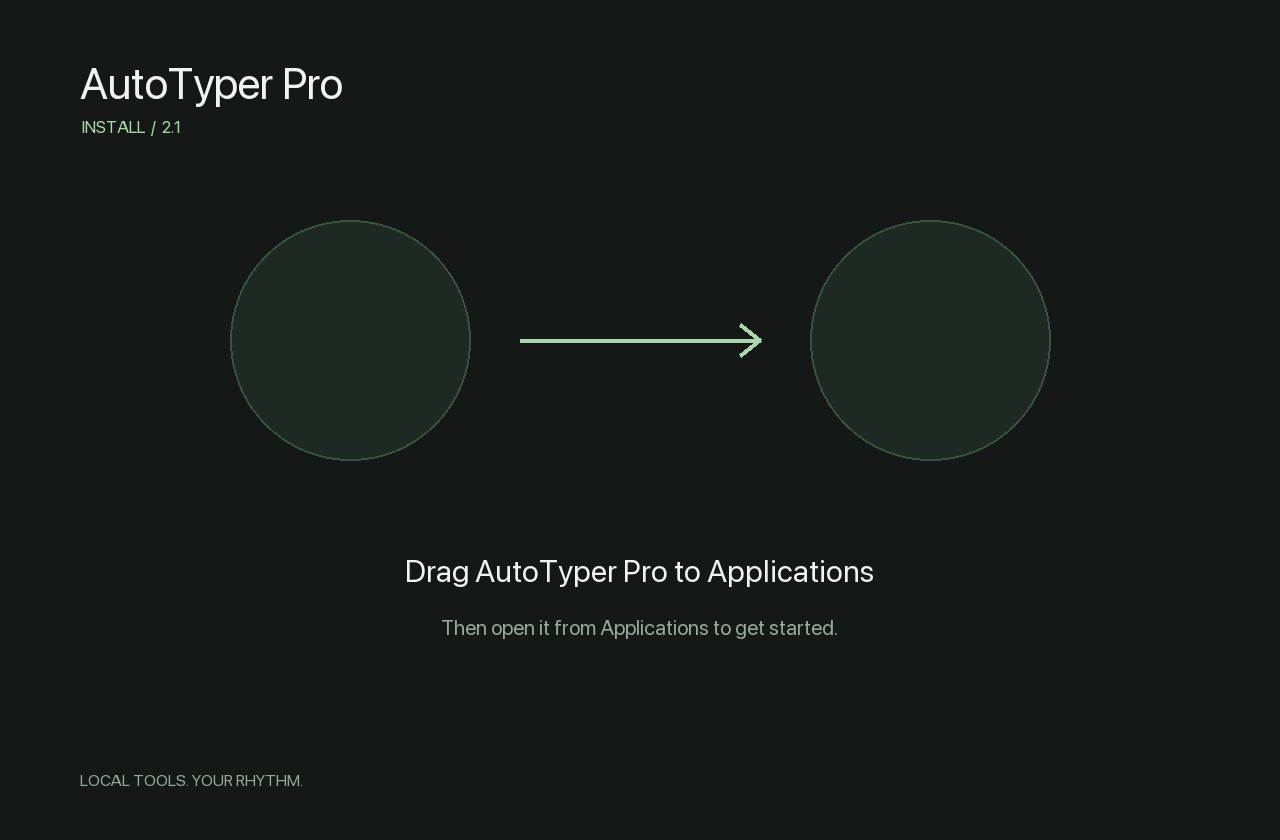
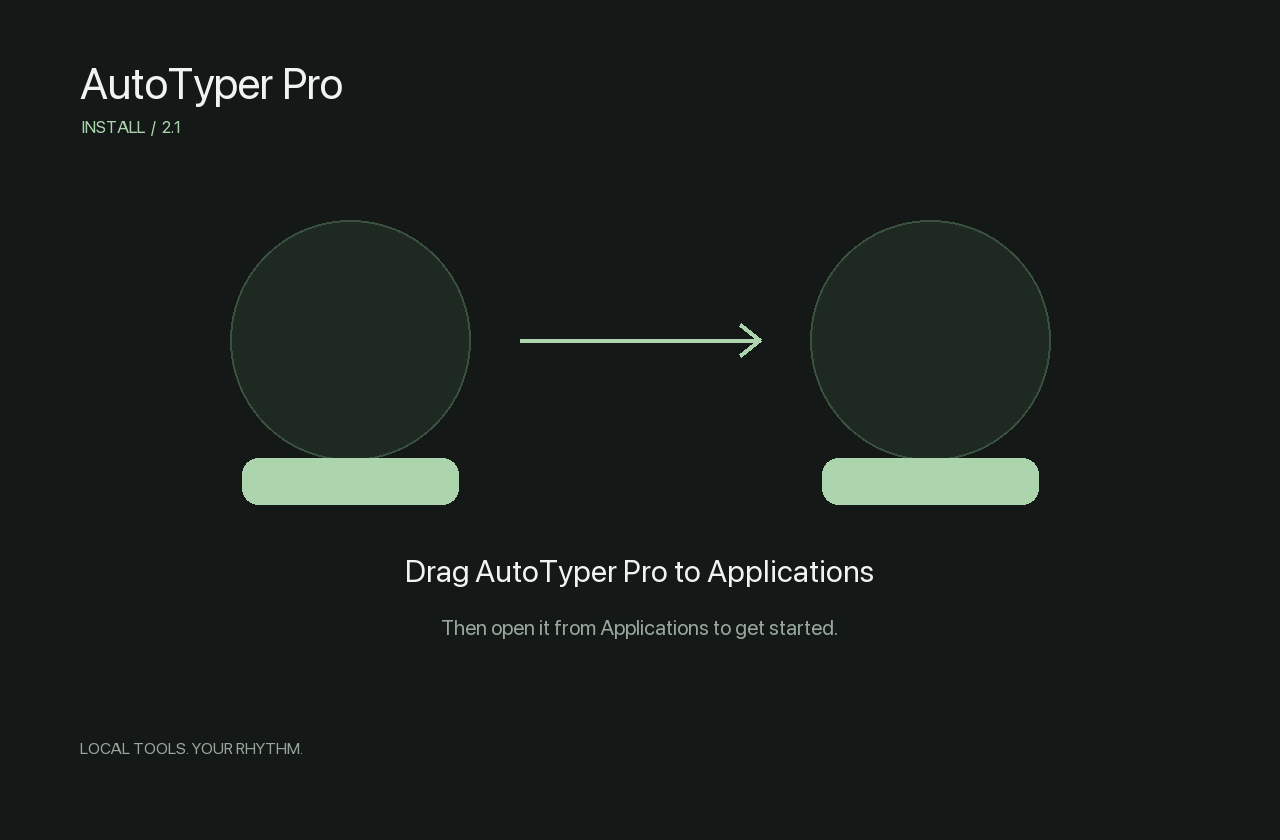
fix: improve Retina installer artwork and wait for UI completion in CI

diff --git a/packaging/macos/build_dmg.py b/packaging/macos/build_dmg.py
@@ -28,14 +28,17 @@ with tempfile.TemporaryDirectory(prefix='autotyper-dmg-') as temp:
     try:
         (mount/'Applications').symlink_to('/Applications')
         background=mount/'.background';background.mkdir()
-        Image.open(root/'assets/dmg-background.png').resize((640,420),Image.Resampling.LANCZOS).save(background/'background.png')
+        retina=Image.open(root/'assets/dmg-background.png')
+        retina.resize((640,420),Image.Resampling.LANCZOS).save(background/'background.png',dpi=(72,72))
+        retina.save(background/'background@2x.png',dpi=(144,144))
+        run('tiffutil','-cathidpicheck',str(background/'background.png'),str(background/'background@2x.png'),'-out',str(background/'background.tiff'))
         shutil.copy2(root/'assets/icon.icns',mount/'.VolumeIcon.icns')
         info=bytearray(32);info[8]=4
         run('xattr','-wx','com.apple.FinderInfo',bytes(info).hex(),str(mount))
         with DSStore.open(str(mount/'.DS_Store'),'w+') as ds:
             ds['.']['vSrn']=('long',1)
             ds['.']['bwsp']={'WindowBounds':'{{200, 150}, {640, 420}}','ShowToolbar':False,'ShowSidebar':False,'ContainerShowSidebar':False,'PreviewPaneVisibility':False,'SidebarWidth':0,'ShowStatusBar':False,'ShowPathbar':False,'ShowTabView':False}
-            ds['.']['icvp']={'viewOptionsVersion':1,'backgroundType':2,'backgroundImageAlias':Alias.for_file(str(background/'background.png')).to_bytes(),'backgroundColorRed':.08,'backgroundColorGreen':.09,'backgroundColorBlue':.08,'iconSize':104.0,'textSize':13.0,'labelOnBottom':True,'gridSpacing':100.0,'gridOffsetX':0.0,'gridOffsetY':0.0,'arrangeBy':'none','showIconPreview':True,'showItemInfo':False,'scrollPositionX':0.0,'scrollPositionY':0.0}
+            ds['.']['icvp']={'viewOptionsVersion':1,'backgroundType':2,'backgroundImageAlias':Alias.for_file(str(background/'background.tiff')).to_bytes(),'backgroundColorRed':.08,'backgroundColorGreen':.09,'backgroundColorBlue':.08,'iconSize':104.0,'textSize':13.0,'labelOnBottom':True,'gridSpacing':100.0,'gridOffsetX':0.0,'gridOffsetY':0.0,'arrangeBy':'none','showIconPreview':True,'showItemInfo':False,'scrollPositionX':0.0,'scrollPositionY':0.0}
             ds['.']['icvl']=('type','icnv')
             ds[app.name]['Iloc']=(175,170)
             ds['Applications']['Iloc']=(465,170)

diff --git a/tools/ui_smoke.py b/tools/ui_smoke.py
@@ -26,6 +26,11 @@ def pump(seconds=.3):
     deadline=time.monotonic()+seconds
     while time.monotonic()<deadline:
         app.root.update(); time.sleep(.01)
+def pump_until(predicate,timeout=8):
+    deadline=time.monotonic()+timeout
+    while not predicate() and time.monotonic()<deadline:
+        app.root.update();time.sleep(.01)
+    assert predicate(),'UI activity did not settle before timeout'
 
 app.root.geometry('980x740'); pump()
 app.nav.set('Mouse Jiggler'); app.show_page('Mouse Jiggler'); pump()
@@ -36,14 +41,15 @@ app.start_typing(); assert not app.typing_active.is_set()
 app.text_input.insert('1.0','İstanbul şğüöç'); pump()
 app.start_delay.delete(0,'end'); app.start_delay.insert(0,'0')
 app.speed.set('Çok hızlı'); app.settings_changed()
-app.start_typing(); pump(1)
+app.start_typing(); pump_until(lambda:not app.typing_active.is_set())
 assert ''.join(app.backend.output)=='İstanbul şğüöç',app.backend.output
 assert not app.typing_active.is_set()
 assert app.progress.get()==1
 app.start_delay.delete(0,'end'); app.start_delay.insert(0,'nan')
 app.start_typing(); assert not app.typing_active.is_set()
 app.start_delay.delete(0,'end'); app.start_delay.insert(0,'60')
-app.start_typing(); pump(.2); app.emergency_stop(); pump(.3)
+app.start_typing(); pump(.2); app.emergency_stop()
+pump_until(lambda:not app.typing_active.is_set() and not app.jiggler_thread.is_alive())
 assert not app.typing_active.is_set()
 assert not app.jiggler_thread.is_alive()
 app.speed.set('Rastgele'); app.settings_changed(); pump()

diff --git a/tools/create_icon.py b/tools/create_icon.py
@@ -36,9 +36,10 @@ def font(size):return ImageFont.truetype(str(font_path),size) if font_path.exist
 draw.text((80,56),'AutoTyper Pro',font=font(44),fill='#F0F3EF')
 draw.text((82,116),'INSTALL  /  2.1',font=font(17),fill='#ACD5AE')
 for x in (350,930):draw.ellipse((x-120,340-120,x+120,340+120),fill='#1D2921',outline='#3A5140',width=2)
+for x in (350,930):draw.rounded_rectangle((x-108,458,x+108,504),radius=16,fill='#ACD5AE')
 draw.line((520,340,760,340),fill='#ACD5AE',width=4)
 draw.line((740,324,760,340,740,356),fill='#ACD5AE',width=4)
 draw.text((640,570),'Drag AutoTyper Pro to Applications',font=font(31),fill='#F0F3EF',anchor='mm')
 draw.text((640,627),'Then open it from Applications to get started.',font=font(21),fill='#97A79C',anchor='mm')
-draw.text((80,770),'LOCAL TOOLS. YOUR RHYTHM.',font=font(16),fill='#97A79C')
+draw.text((80,738),'LOCAL TOOLS. YOUR RHYTHM.',font=font(16),fill='#97A79C')
 bg.save(out/'dmg-background.png')
